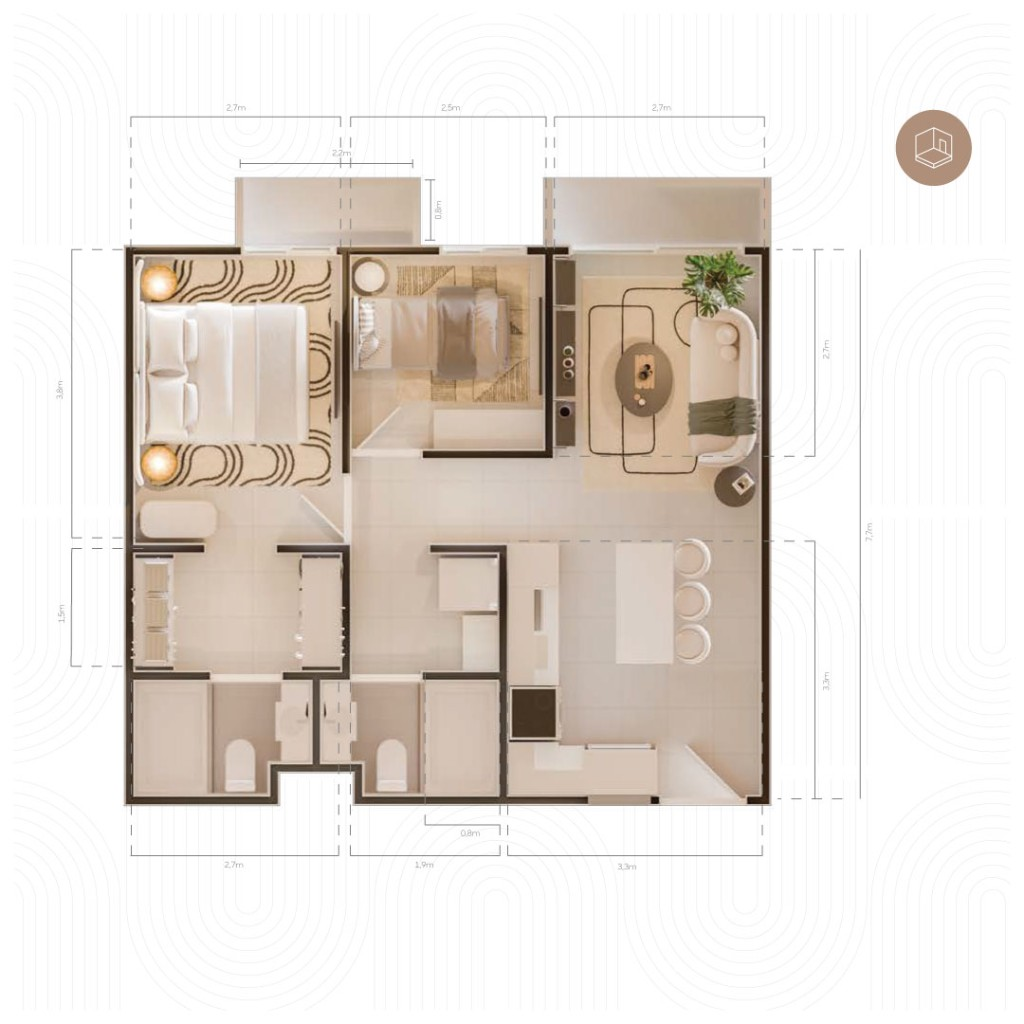
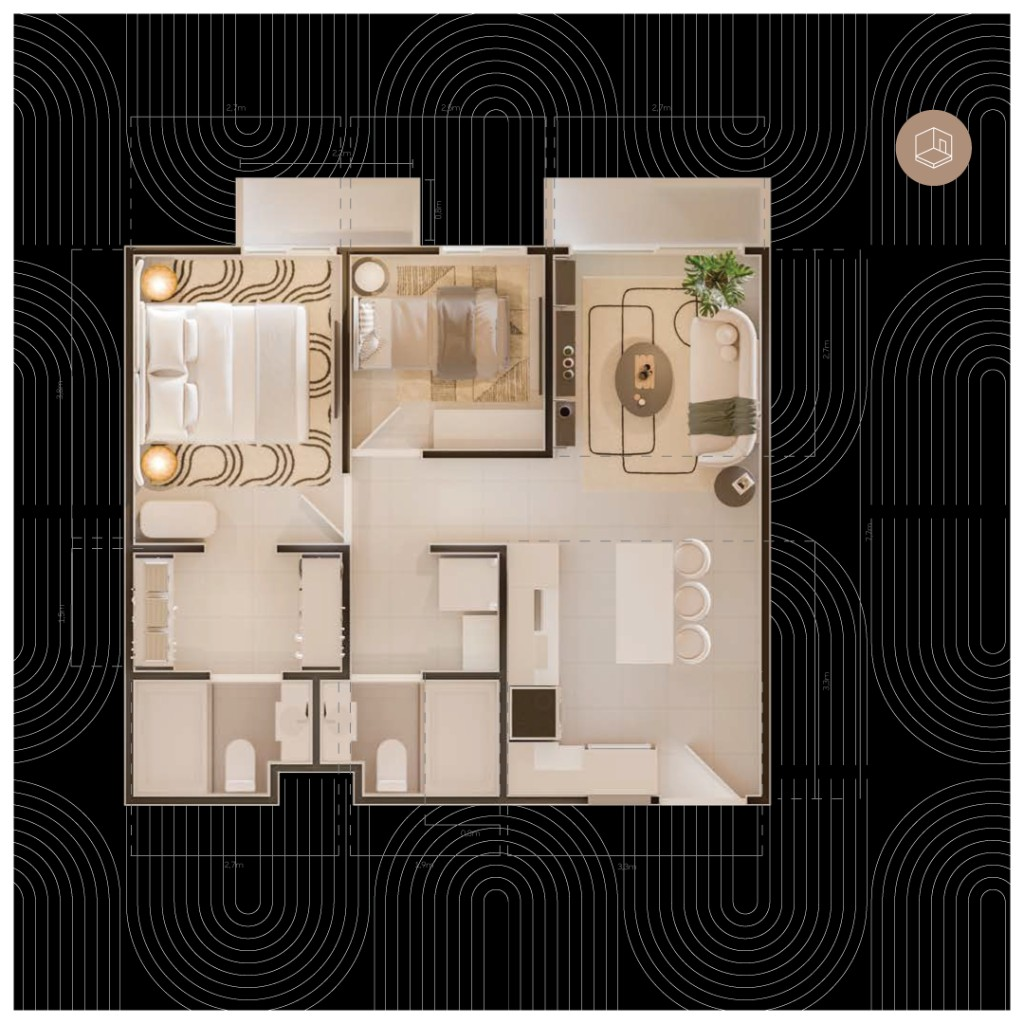
fix(frontend): plantas corregidas y PDF más compacto
- Reemplazar PNG en plantas-detalle (versiones con fondo oscuro)
- Tablas: menos padding y fuente 8pt; menos márgenes entre secciones
- Planta en PDF: altura máxima menor para caber en 2 hojas

Made-with: Cursor

diff --git a/frontend/src/utils/generateReservationPDF.js b/frontend/src/utils/generateReservationPDF.js
@@ -68,15 +68,15 @@ function assetUrl(filename) {
 }
 
 /** Espacio reservado al pie de página para el pie de marca (mm). */
-const TABLE_MARGIN_BOTTOM = 28;
+const TABLE_MARGIN_BOTTOM = 24;
 
 const tableBase = {
   theme: 'plain',
   styles: {
     font: 'helvetica',
-    fontSize: 8.5,
+    fontSize: 8,
     textColor: PDF.ink,
-    cellPadding: { top: 2.8, right: 3, bottom: 2.8, left: 3 },
+    cellPadding: { top: 2, right: 2.8, bottom: 2, left: 2.8 },
     lineColor: PDF.line,
     lineWidth: PDF_LINE,
   },
@@ -84,8 +84,8 @@ const tableBase = {
     fillColor: PDF.cream,
     textColor: PDF.ink,
     fontStyle: 'bold',
-    fontSize: 8.5,
-    cellPadding: { top: 2.5, right: 3, bottom: 2.5, left: 3 },
+    fontSize: 8,
+    cellPadding: { top: 2, right: 2.8, bottom: 2, left: 2.8 },
     lineColor: PDF.line,
     lineWidth: PDF_LINE,
   },
@@ -156,7 +156,7 @@ export async function generateReservationPDF(unit, salesPlan) {
     const logoW = imgProps.width * ratio;
     const logoH = imgProps.height * ratio;
     doc.addImage(logoPrepared.dataUrl, logoPrepared.format, (pageW - logoW) / 2, y, logoW, logoH);
-    y += logoH + 5;
+    y += logoH + 4;
   } catch {
     doc.setFont('helvetica', 'bold');
     doc.setFontSize(22);
@@ -172,7 +172,7 @@ export async function generateReservationPDF(unit, salesPlan) {
   doc.setDrawColor(...PDF.line);
   doc.setLineWidth(PDF_LINE);
   doc.line(margin, y, pageW - margin, y);
-  y += 7;
+  y += 6;
 
   // ── Título documento ────────────────────────────────────────────
   doc.setFont('helvetica', 'bold');
@@ -185,7 +185,7 @@ export async function generateReservationPDF(unit, salesPlan) {
   doc.setFontSize(9.5);
   doc.setTextColor(...PDF.ink);
   doc.text(`Fecha ${formatDateLong()}`, pageW / 2, y, { align: 'center' });
-  y += 10;
+  y += 8.5;
 
   const aptM2 = salesPlan.aptArea != null ? salesPlan.aptArea : unit.area;
   const parkM2 = salesPlan.parkingM2 != null ? salesPlan.parkingM2 : unit.parkingArea;
@@ -199,7 +199,7 @@ export async function generateReservationPDF(unit, salesPlan) {
   doc.text('Resumen', margin, y);
   y += 4.5;
 
-  const resumenH = 23;
+  const resumenH = 21;
   doc.setFillColor(...PDF.cream);
   doc.setDrawColor(...PDF.line);
   doc.setLineWidth(PDF_LINE);
@@ -214,17 +214,17 @@ export async function generateReservationPDF(unit, salesPlan) {
     `${unit.bedrooms} hab.  ·  ${unit.bathrooms} baño${Number(unit.bathrooms) !== 1 ? 's' : ''}  ·  ${unit.view}  ·  Piso ${unit.floor}`,
     `Entrega estimada: ${unit.delivery}  ·  Tipo: ${unit.type}`,
   ];
-  let ry = y + 5.5;
+  let ry = y + 5;
   resumenLines.forEach((line) => {
     doc.text(line, margin + 3.5, ry);
-    ry += 4.2;
+    ry += 3.9;
   });
-  y += resumenH + 8;
+  y += resumenH + 6.5;
 
   // ── Planta: prioridad a `public/plantas-detalle/` (plano detallado); si no, planta piso + recuadro ──
   const contentW = pageW - margin * 2;
-  const maxPlanHDetail = 88;
-  const maxPlanHFallback = 72;
+  const maxPlanHDetail = 76;
+  const maxPlanHFallback = 60;
 
   const detailCandidates = getDetailPlanImageCandidates(unit);
   const detailLoaded = await fetchFirstImageFromCandidates(detailCandidates);
@@ -254,7 +254,7 @@ export async function generateReservationPDF(unit, salesPlan) {
     }
   }
 
-  const planSectionH = 4 + planImgH + 14;
+  const planSectionH = 4 + planImgH + 12;
   if (y + planSectionH > pageH - TABLE_MARGIN_BOTTOM) {
     doc.addPage();
     doc.setFillColor(...PDF.paper);
@@ -275,7 +275,7 @@ export async function generateReservationPDF(unit, salesPlan) {
   if (detailPrepared) {
     const imgX = margin + (contentW - planImgW) / 2;
     doc.addImage(detailPrepared.dataUrl, detailPrepared.format, imgX, y, planImgW, planImgH);
-    y += planImgH + 5;
+    y += planImgH + 4;
     doc.setFont('helvetica', 'italic');
     doc.setFontSize(7.5);
     doc.setTextColor(...PDF.muted);
@@ -285,7 +285,7 @@ export async function generateReservationPDF(unit, salesPlan) {
       y,
       { align: 'center', maxWidth: contentW }
     );
-    y += 8;
+    y += 6.5;
   } else {
     const planImgName = getFloorPlanImageFilename(unit.floor);
     try {
@@ -306,7 +306,7 @@ export async function generateReservationPDF(unit, salesPlan) {
         doc.rect(imgX + pl * planImgW, y + pt * planImgH, pw * planImgW, ph * planImgH, 'S');
       }
 
-      y += planImgH + 5;
+      y += planImgH + 4;
       doc.setFont('helvetica', 'italic');
       doc.setFontSize(7.5);
       doc.setTextColor(...PDF.muted);
@@ -316,7 +316,7 @@ export async function generateReservationPDF(unit, salesPlan) {
         y,
         { align: 'center', maxWidth: contentW }
       );
-      y += 8;
+      y += 6.5;
     } catch {
       doc.setFont('helvetica', 'italic');
       doc.setFontSize(7.5);
@@ -327,7 +327,7 @@ export async function generateReservationPDF(unit, salesPlan) {
         y,
         { align: 'left', maxWidth: contentW }
       );
-      y += 8;
+      y += 6.5;
     }
   }
 
@@ -336,7 +336,7 @@ export async function generateReservationPDF(unit, salesPlan) {
   doc.setFontSize(10.5);
   doc.setTextColor(...PDF.ink);
   doc.text('Plan de inversión', margin, y);
-  y += 4;
+  y += 3.5;
 
   const prem = Number(salesPlan.parkingPremium);
   const hasPrem = Number.isFinite(prem) && Math.abs(prem) > 0.005;
@@ -381,7 +381,7 @@ export async function generateReservationPDF(unit, salesPlan) {
     },
   });
 
-  y = doc.lastAutoTable.finalY + 7;
+  y = doc.lastAutoTable.finalY + 5;
 
   // ── Detalle adicional (sin naranja en montos secundarios) ────────
   const extraRows = [
@@ -398,7 +398,7 @@ export async function generateReservationPDF(unit, salesPlan) {
   doc.setFontSize(10.5);
   doc.setTextColor(...PDF.ink);
   doc.text('Condiciones complementarias', margin, y);
-  y += 4;
+  y += 3.5;
 
   autoTable(doc, {
     ...tableBase,
@@ -417,7 +417,7 @@ export async function generateReservationPDF(unit, salesPlan) {
     },
   });
 
-  y = doc.lastAutoTable.finalY + 7;
+  y = doc.lastAutoTable.finalY + 5;
 
   // ── Calendario de pagos (cuotas en naranja) ─────────────────────
   const baseDate = salesPlan.reservaDate ? new Date(salesPlan.reservaDate) : new Date();
@@ -455,7 +455,7 @@ export async function generateReservationPDF(unit, salesPlan) {
   doc.setFontSize(10.5);
   doc.setTextColor(...PDF.ink);
   doc.text('Calendario de pagos', margin, y);
-  y += 4;
+  y += 3.5;
 
   autoTable(doc, {
     ...tableBase,
@@ -479,7 +479,7 @@ export async function generateReservationPDF(unit, salesPlan) {
     },
   });
 
-  y = doc.lastAutoTable.finalY + 7;
+  y = doc.lastAutoTable.finalY + 5;
 
   // ── Financiamiento bancario (referencia) ─────────────────────────
   const tasaPdf = Number.isFinite(Number(salesPlan.tasaAnualPct))
@@ -506,12 +506,12 @@ export async function generateReservationPDF(unit, salesPlan) {
   doc.setFontSize(10.5);
   doc.setTextColor(...PDF.ink);
   doc.text('Financiamiento bancario (referencia)', margin, y);
-  y += 3.5;
+  y += 3;
   doc.setFont('helvetica', 'normal');
   doc.setFontSize(7.5);
   doc.setTextColor(...PDF.muted);
   doc.text('Estimaciones orientativas; condiciones sujetas a aprobación bancaria.', margin, y);
-  y += 4.5;
+  y += 4;
 
   autoTable(doc, {
     ...tableBase,
@@ -535,7 +535,7 @@ export async function generateReservationPDF(unit, salesPlan) {
     },
   });
 
-  y = doc.lastAutoTable.finalY + 6;
+  y = doc.lastAutoTable.finalY + 5;
 
   doc.setFont('helvetica', 'italic');
   doc.setFontSize(7);
